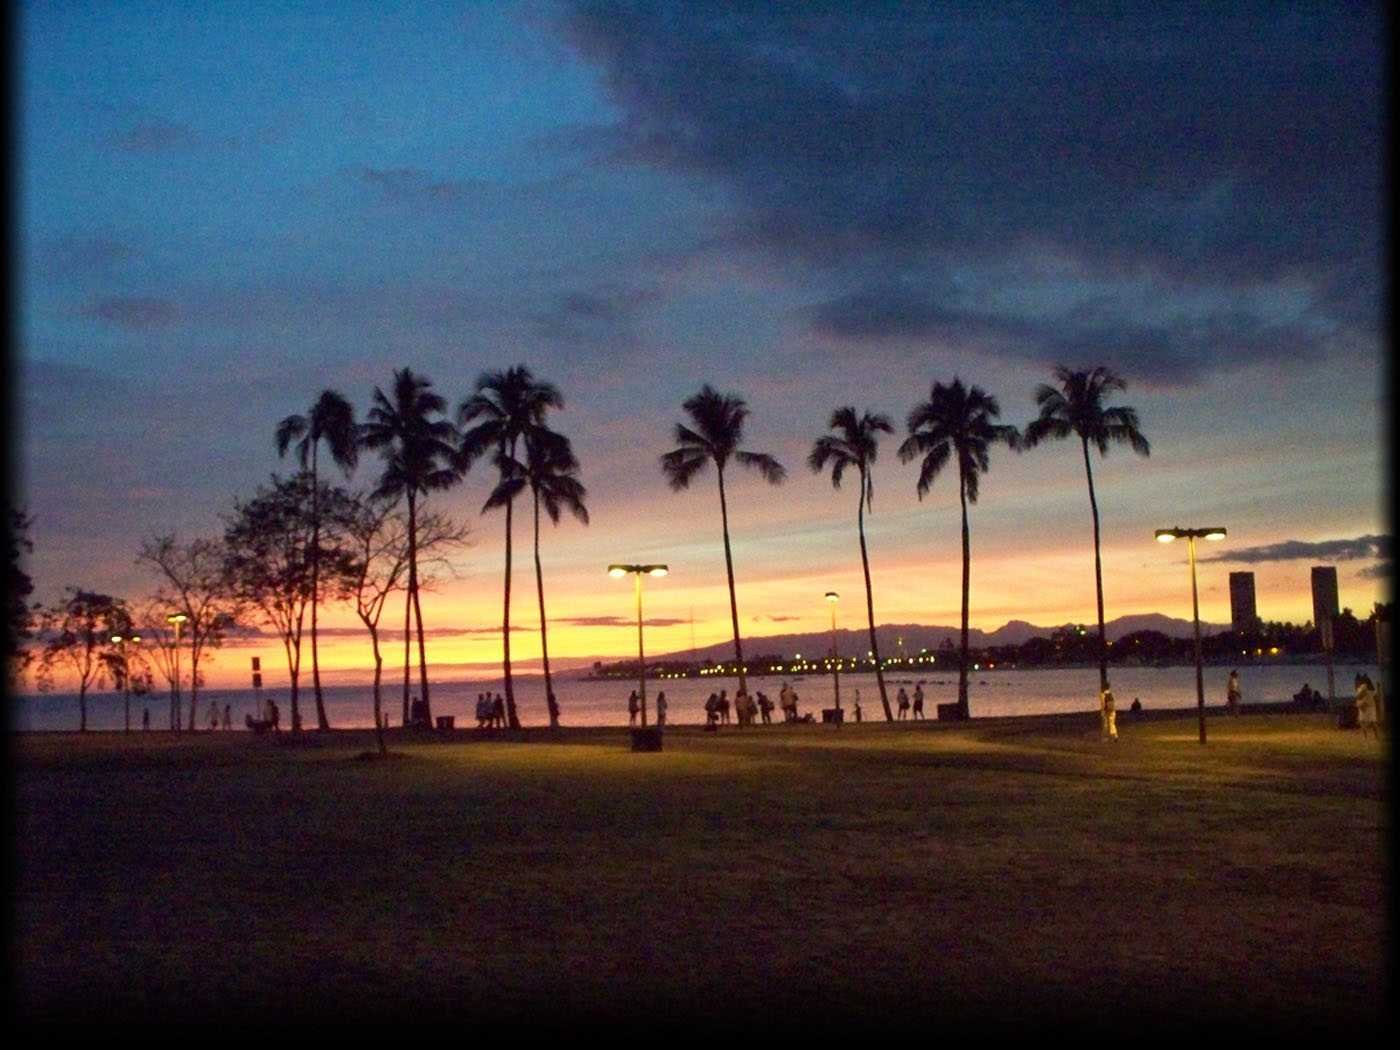
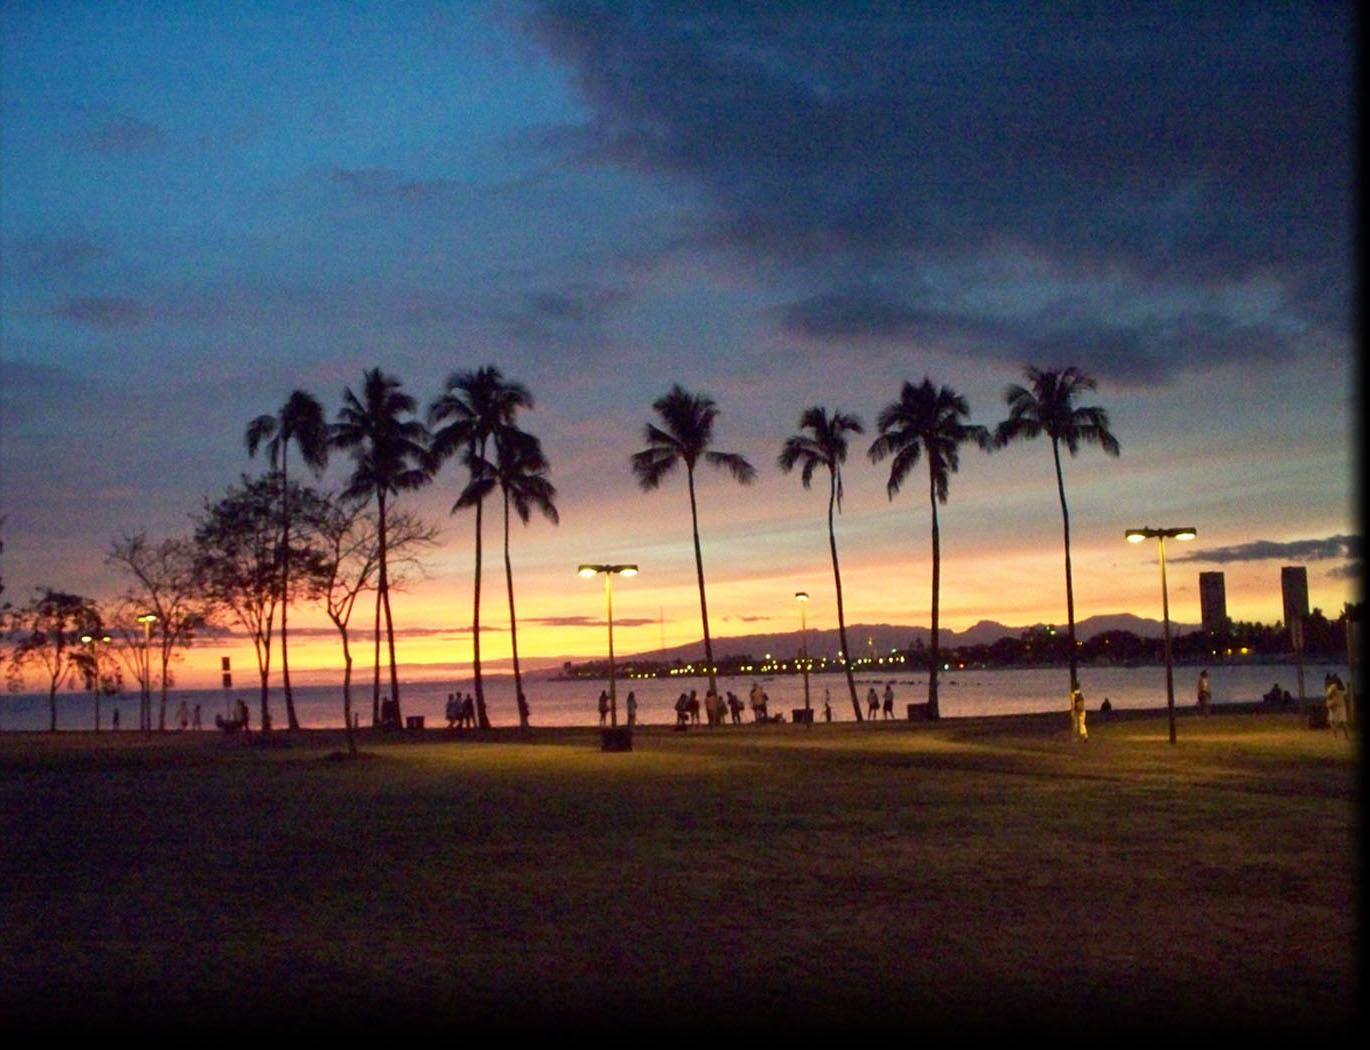
ie fixes

diff --git a/public/stylesheets/sass/_layout.sass b/public/stylesheets/sass/_layout.sass
@@ -1,6 +1,5 @@
 body
-  :margin-top 10px
-  :background #000 url(/images/sunset_bg.jpg) center center no-repeat
+  :background #000 url(/images/sunset_bg.jpg) left top no-repeat
   div.left
     +leftie
   div.right
